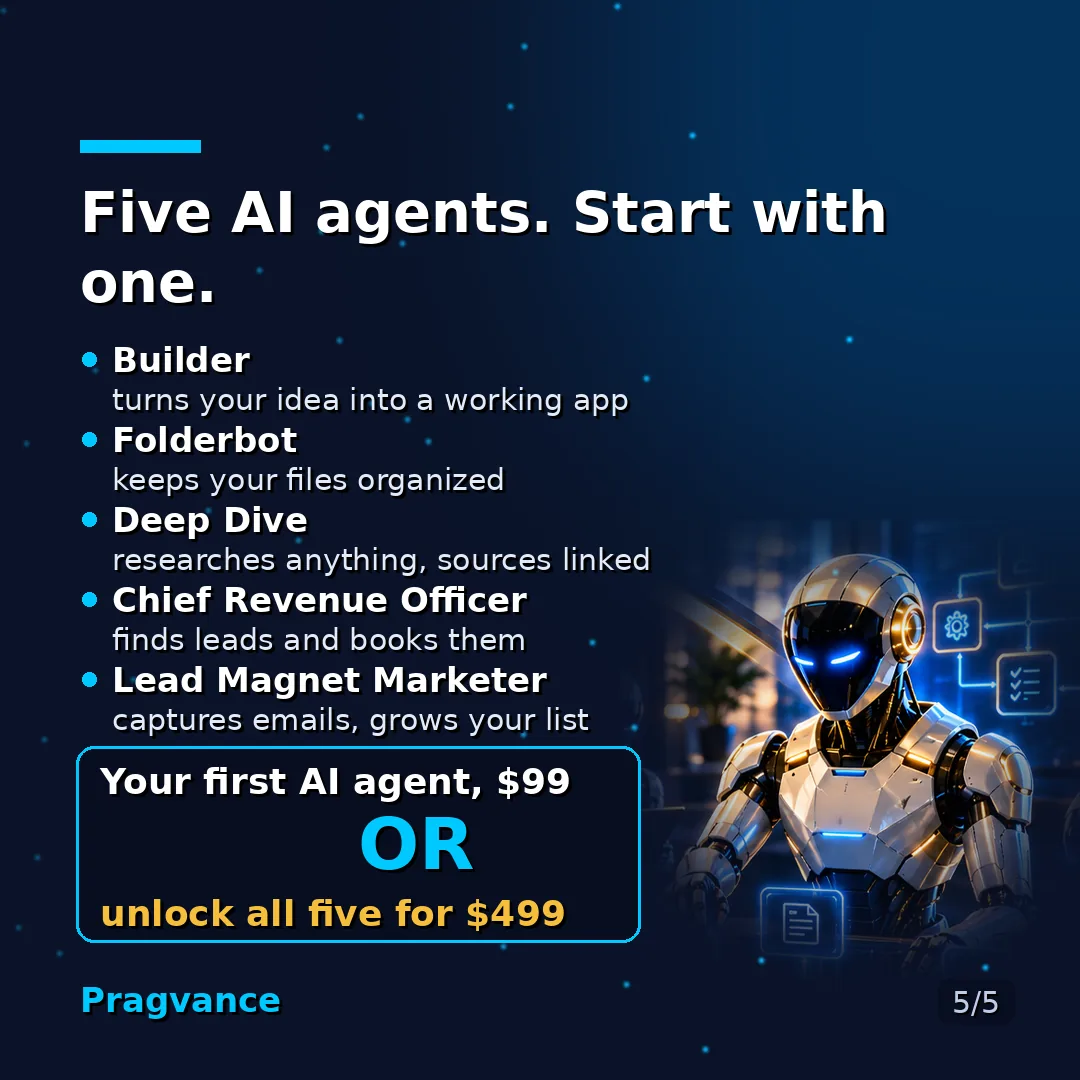
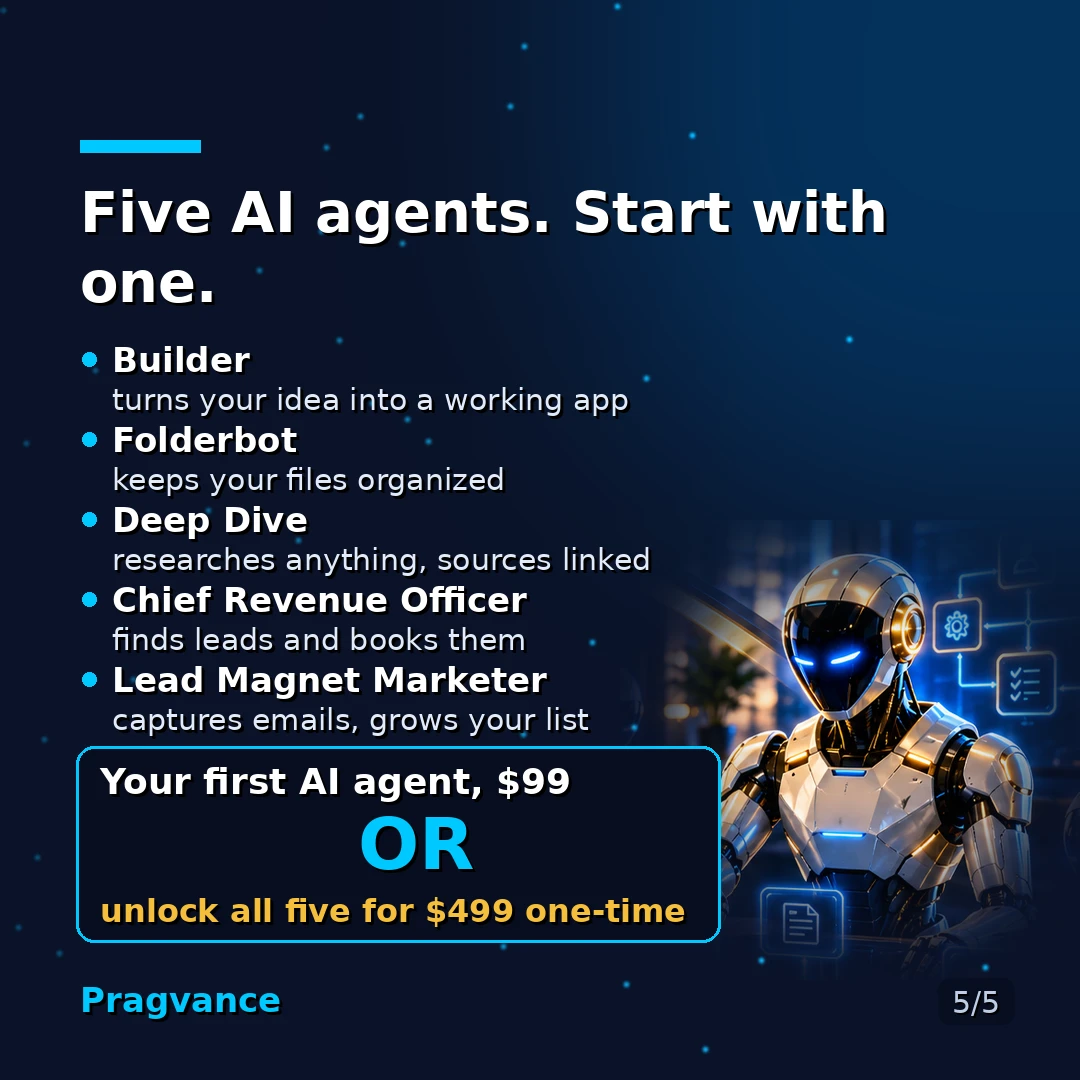
First Agent: $499 one-time wording, package name, slide 5

Changed region(s): [[0.0917, 0.6722, 0.6722, 0.8861]]

diff --git a/src/app/first-agent/page.tsx b/src/app/first-agent/page.tsx
@@ -5,12 +5,12 @@ import FirstAgentCarousel from "@/components/FirstAgentCarousel";
 import { FIRST_AGENT_LABEL, FIRST_AGENT_PATH } from "@/lib/site";
 
 // Package name is set once in FIRST_AGENT_LABEL (src/lib/site.ts).
-// "$99 Special" was only a working name and is intentionally not shown on this page.
+// Package name: "5 Agent Package for $499" (nav label stays "First Agent").
 
 export const metadata: Metadata = {
   title: `${FIRST_AGENT_LABEL}: Your First AI Agent for $99 | Pragvance`,
   description:
-    "Five AI agents: Builder, Folderbot, Deep Dive, Chief Revenue Officer and Lead Magnet Marketer. Your first AI agent is $99, or unlock all five for $499.",
+    "Five AI agents: Builder, Folderbot, Deep Dive, Chief Revenue Officer and Lead Magnet Marketer. Your first AI agent is $99, or unlock all five for $499 one-time.",
   alternates: { canonical: FIRST_AGENT_PATH },
 };
 
@@ -27,7 +27,7 @@ const SLIDES = [
   { src: "/first-agent/slide2.webp", alt: "Leads go cold. Follow-ups slip. Nobody owns the number every day." },
   { src: "/first-agent/slide3.webp", alt: "Meet CROW, Chief Revenue Officer Winston: tracks your revenue goal, flags stalled leads, drafts follow-ups and offers, and tells you the next money move every day." },
   { src: "/first-agent/slide4.webp", alt: "What you get: one custom revenue agent built for your business, plus a 30-minute strategy consultation." },
-  { src: "/first-agent/slide5.webp", alt: "Five AI agents. Start with one: Builder, Folderbot, Deep Dive, Chief Revenue Officer, Lead Magnet Marketer. Your first AI agent, $99, or unlock all five for $499." },
+  { src: "/first-agent/slide5.webp", alt: "Five AI agents. Start with one: Builder, Folderbot, Deep Dive, Chief Revenue Officer, Lead Magnet Marketer. Your first AI agent, $99, or unlock all five for $499 one-time." },
 ];
 
 export default function FirstAgentPage() {
@@ -48,7 +48,7 @@ export default function FirstAgentPage() {
             ))}
           </ul>
           <p className="mt-6 text-lg text-[color:var(--text)]">
-            Your first AI agent, <strong>$99</strong>. Or unlock all five for <strong>$499</strong>.
+            Your first AI agent, <strong>$99</strong>. Or unlock all five for <strong>$499 one-time</strong>.
           </p>
           <Link href="/contact?interest=first-agent#contact"
             className="mt-6 inline-block rounded-full bg-[color:var(--gold)] px-6 py-3 font-semibold text-black hover:bg-[color:var(--gold-bright)]">
